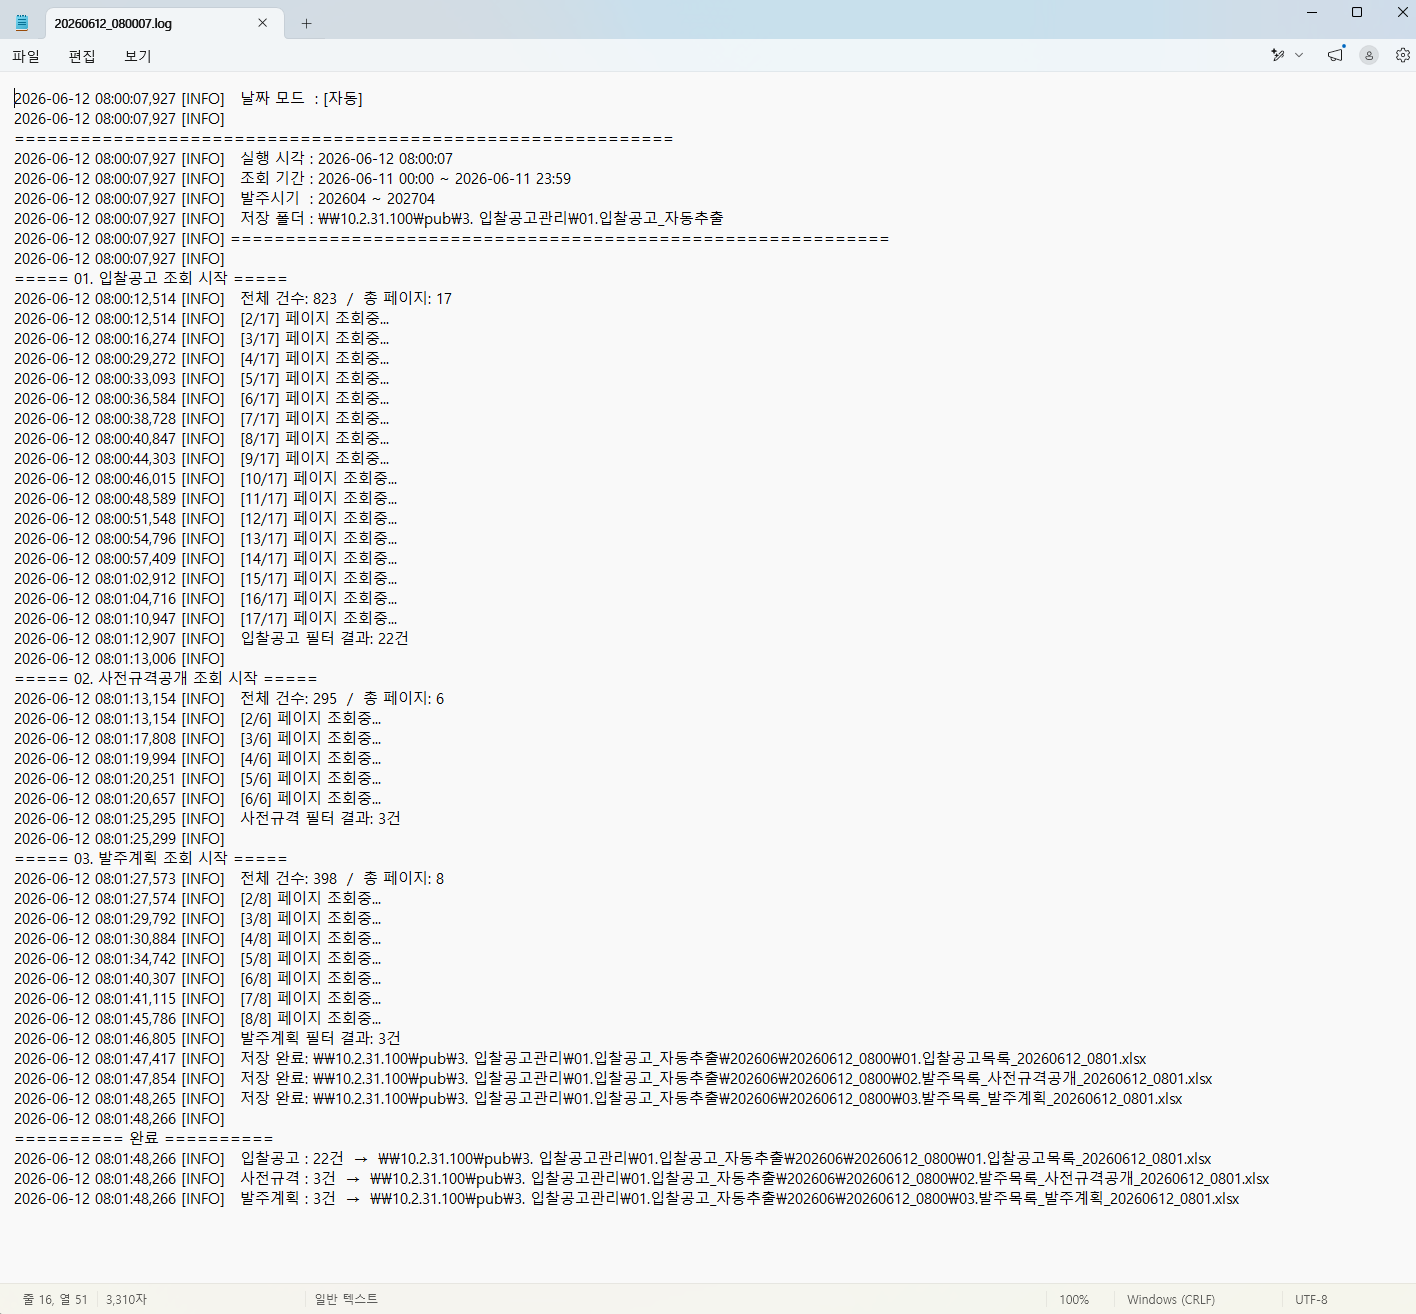
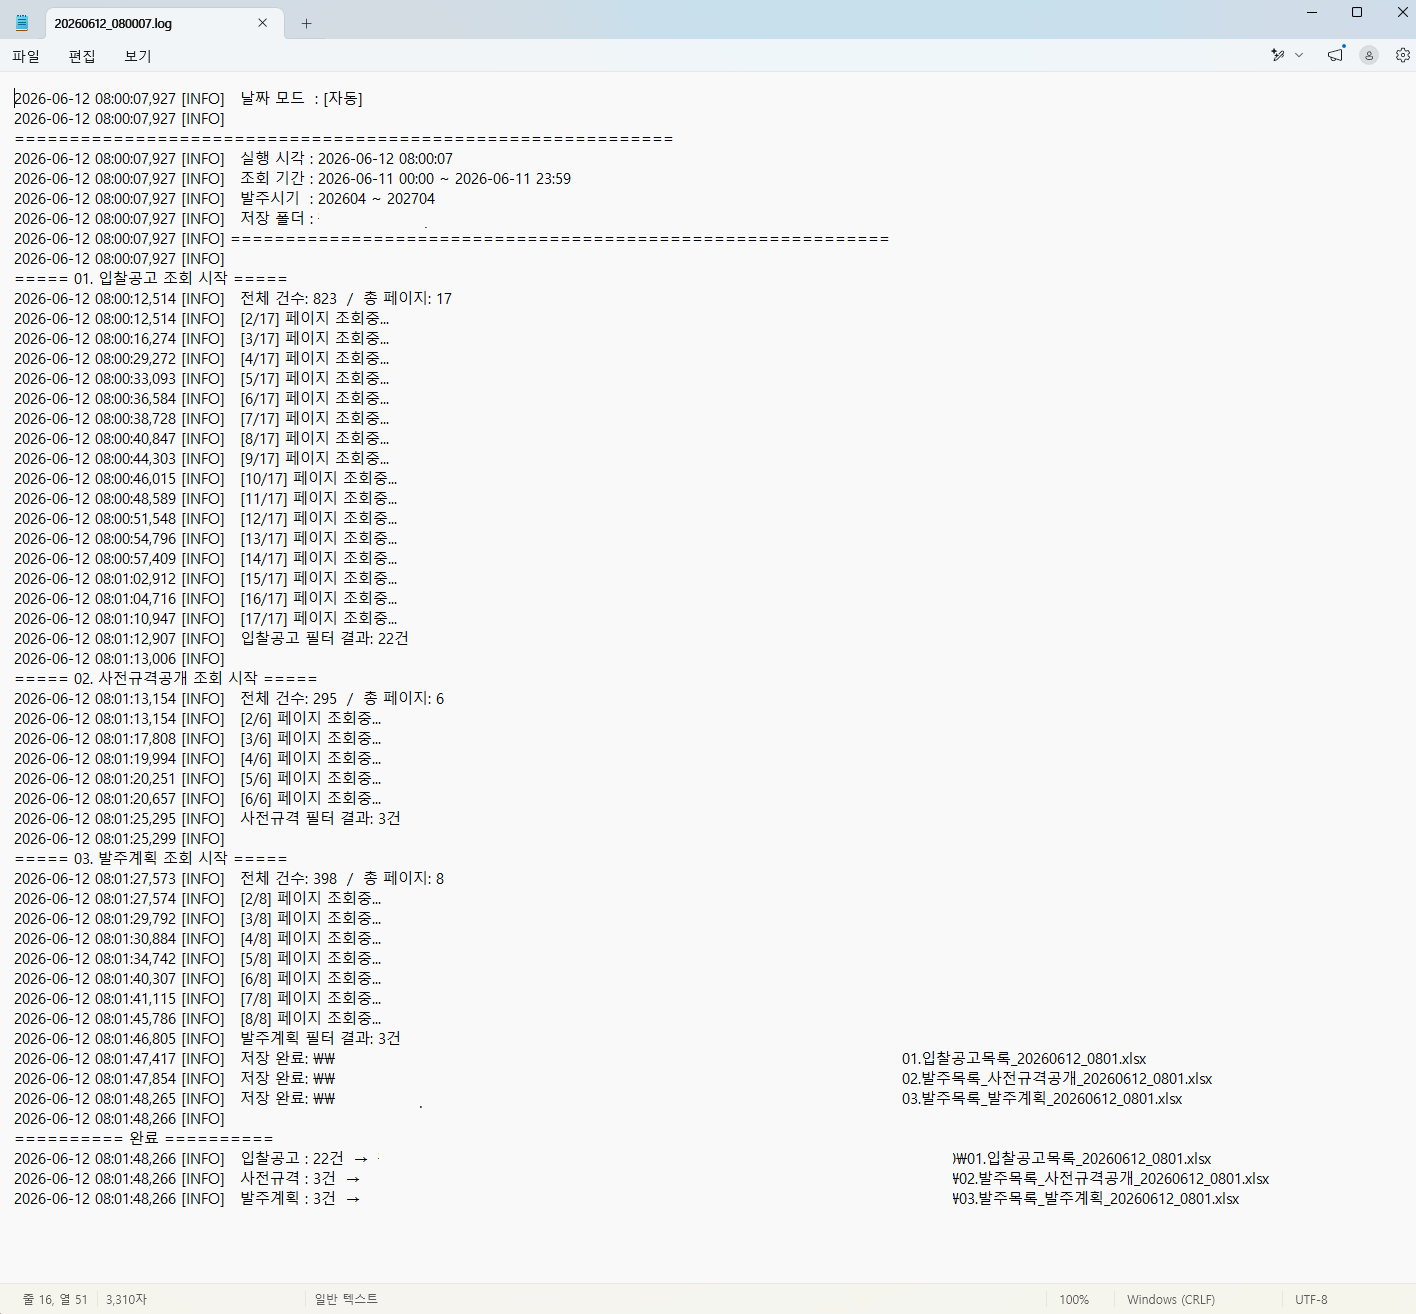
docs: modify log image

Changed region(s): [[0.2486, 0.8737, 0.6836, 0.9361], [0.2175, 0.7801, 0.6525, 0.8425], [0.2175, 0.156, 0.4972, 0.1872]]

diff --git a/README.md b/README.md
@@ -65,7 +65,7 @@ flowchart TD
 
 ## 출력 결과
 
-> 📸 *스크린샷 위치: 생성된 엑셀 파일 캡처 및 실행 로그 캡처를 여기에 첨부*
+
 ![엑셀 출력 예시](docs/excel_output_1.png)
 ![엑셀 출력 예시](docs/excel_output_2.png)
 ![엑셀 출력 예시](docs/excel_output_3.png)
